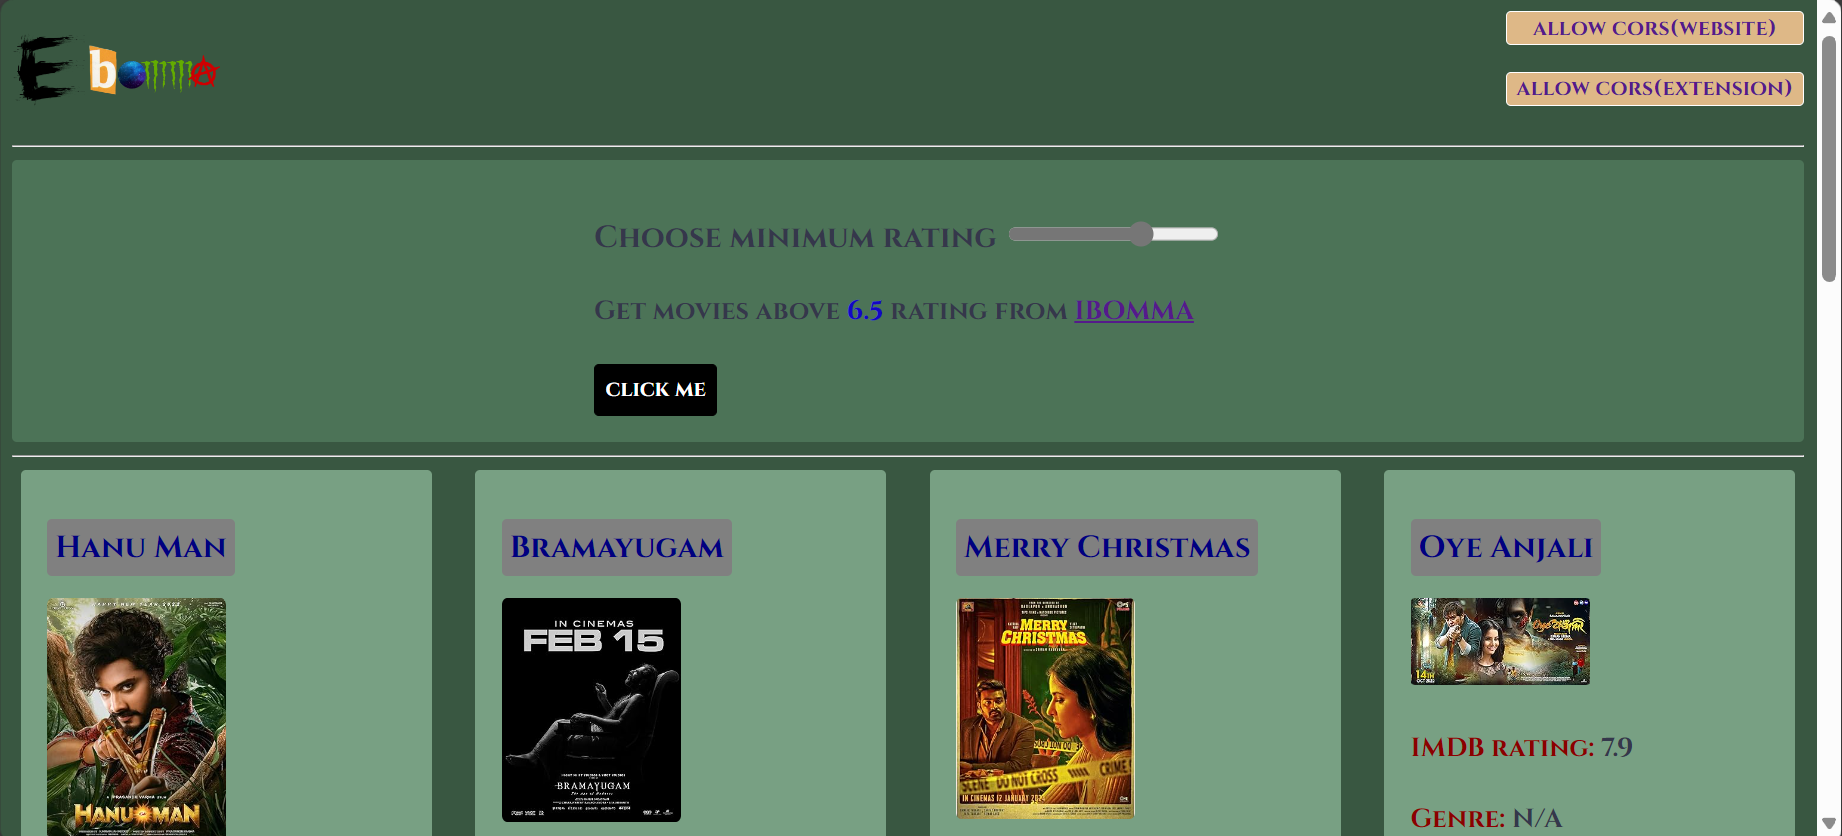
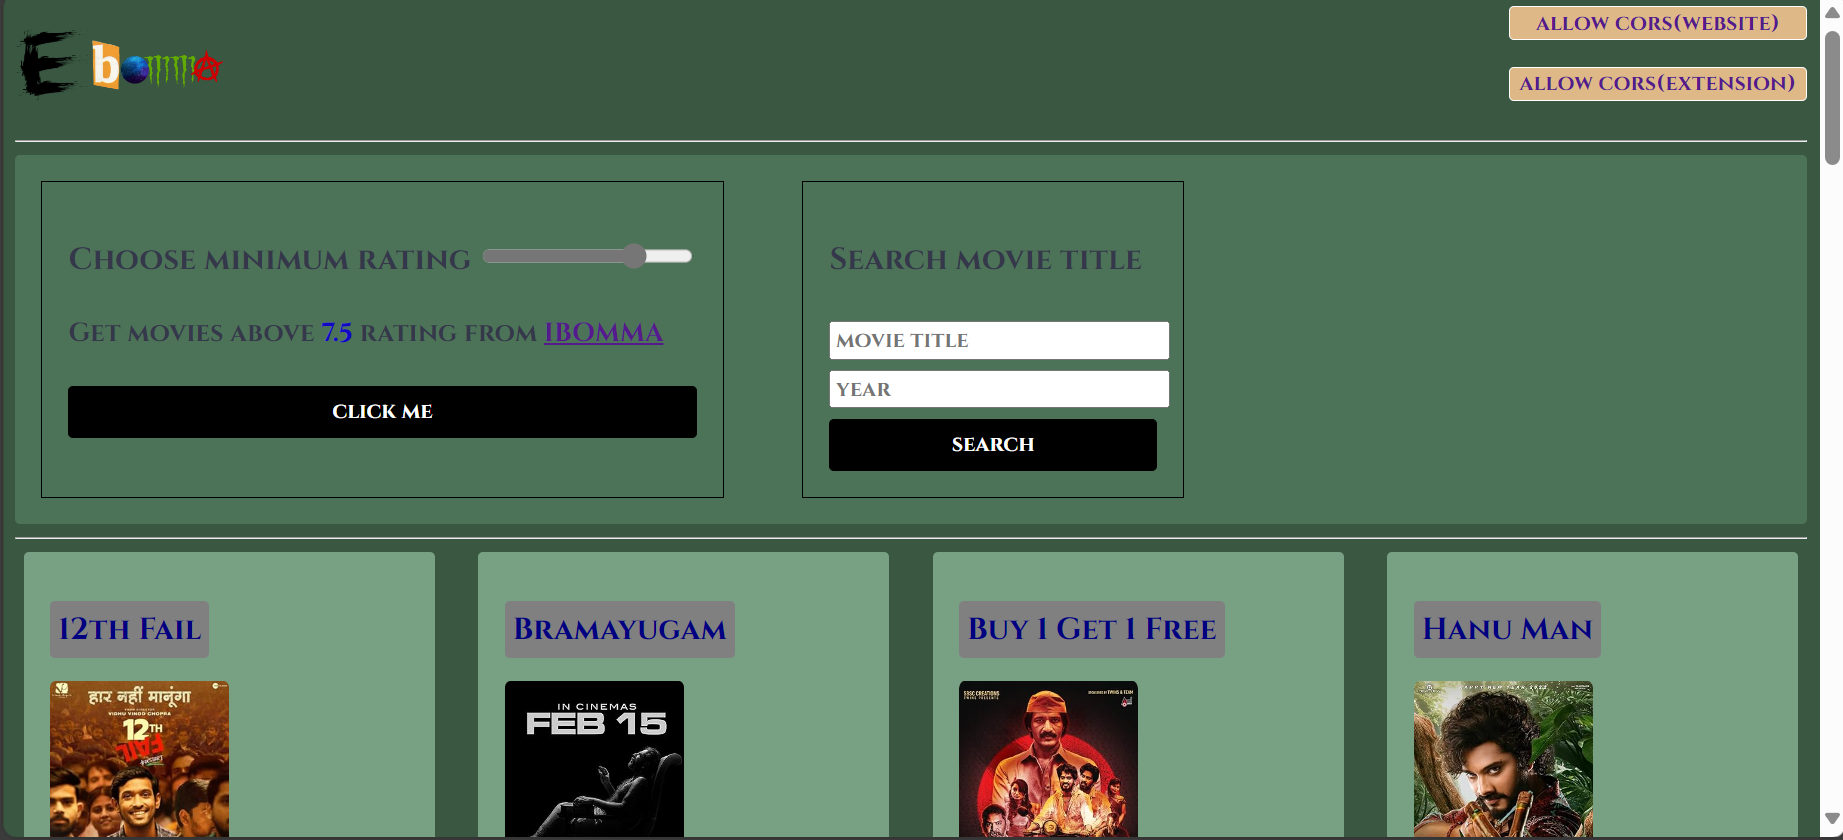
update

diff --git a/style.css b/style.css
@@ -13,9 +13,6 @@
     gap:1rem;
 }
 
-#logo{
-    width:12%;
-}
 
 .highlight{
     color:navy;
@@ -56,6 +53,7 @@ h3,h4,h5{
 
 #container{
     display: flex;
+    justify-content: space-around;
     background-color:rgb(76, 115, 87);
     border-radius: 3px;
     column-gap: 1rem;
@@ -100,16 +98,25 @@ h3,h4,h5{
     .small-div{
         width: 90%;
     }
+        #logo {
+            width: 30%;
+        }
 }
 @media(480px<= width <=750px){
     .small-div{
         width: 40%;
     }
+        #logo {
+            width: 20%;
+        }
 }
 @media(width >750px) {
     .small-div {
         width: 20%;
     }
+        #logo {
+            width: 15%;
+        }
 }
 
 

diff --git a/index.html b/index.html
@@ -19,6 +19,8 @@
             <button class="corsButtons"><a
                     href="https://chromewebstore.google.com/detail/allow-cors-access-control/lhobafahddgcelffkeicbaginigeejlf"
                     target="_blank" class="buttonLink">allow cors(extension)</a></button>
+            <button class="corsButtons"><a href="https://github.com/haryprasadh/ebomma" target="_blank"
+                    class="buttonLink">github repo(guide)</a></button>
         </div>
     </div>
     <hr>
@@ -39,7 +41,6 @@
         </div>
     </div>
     <hr>
-    <div id="mainDiv"></div>
     <script src="./index.js"></script>
 </body>
 
